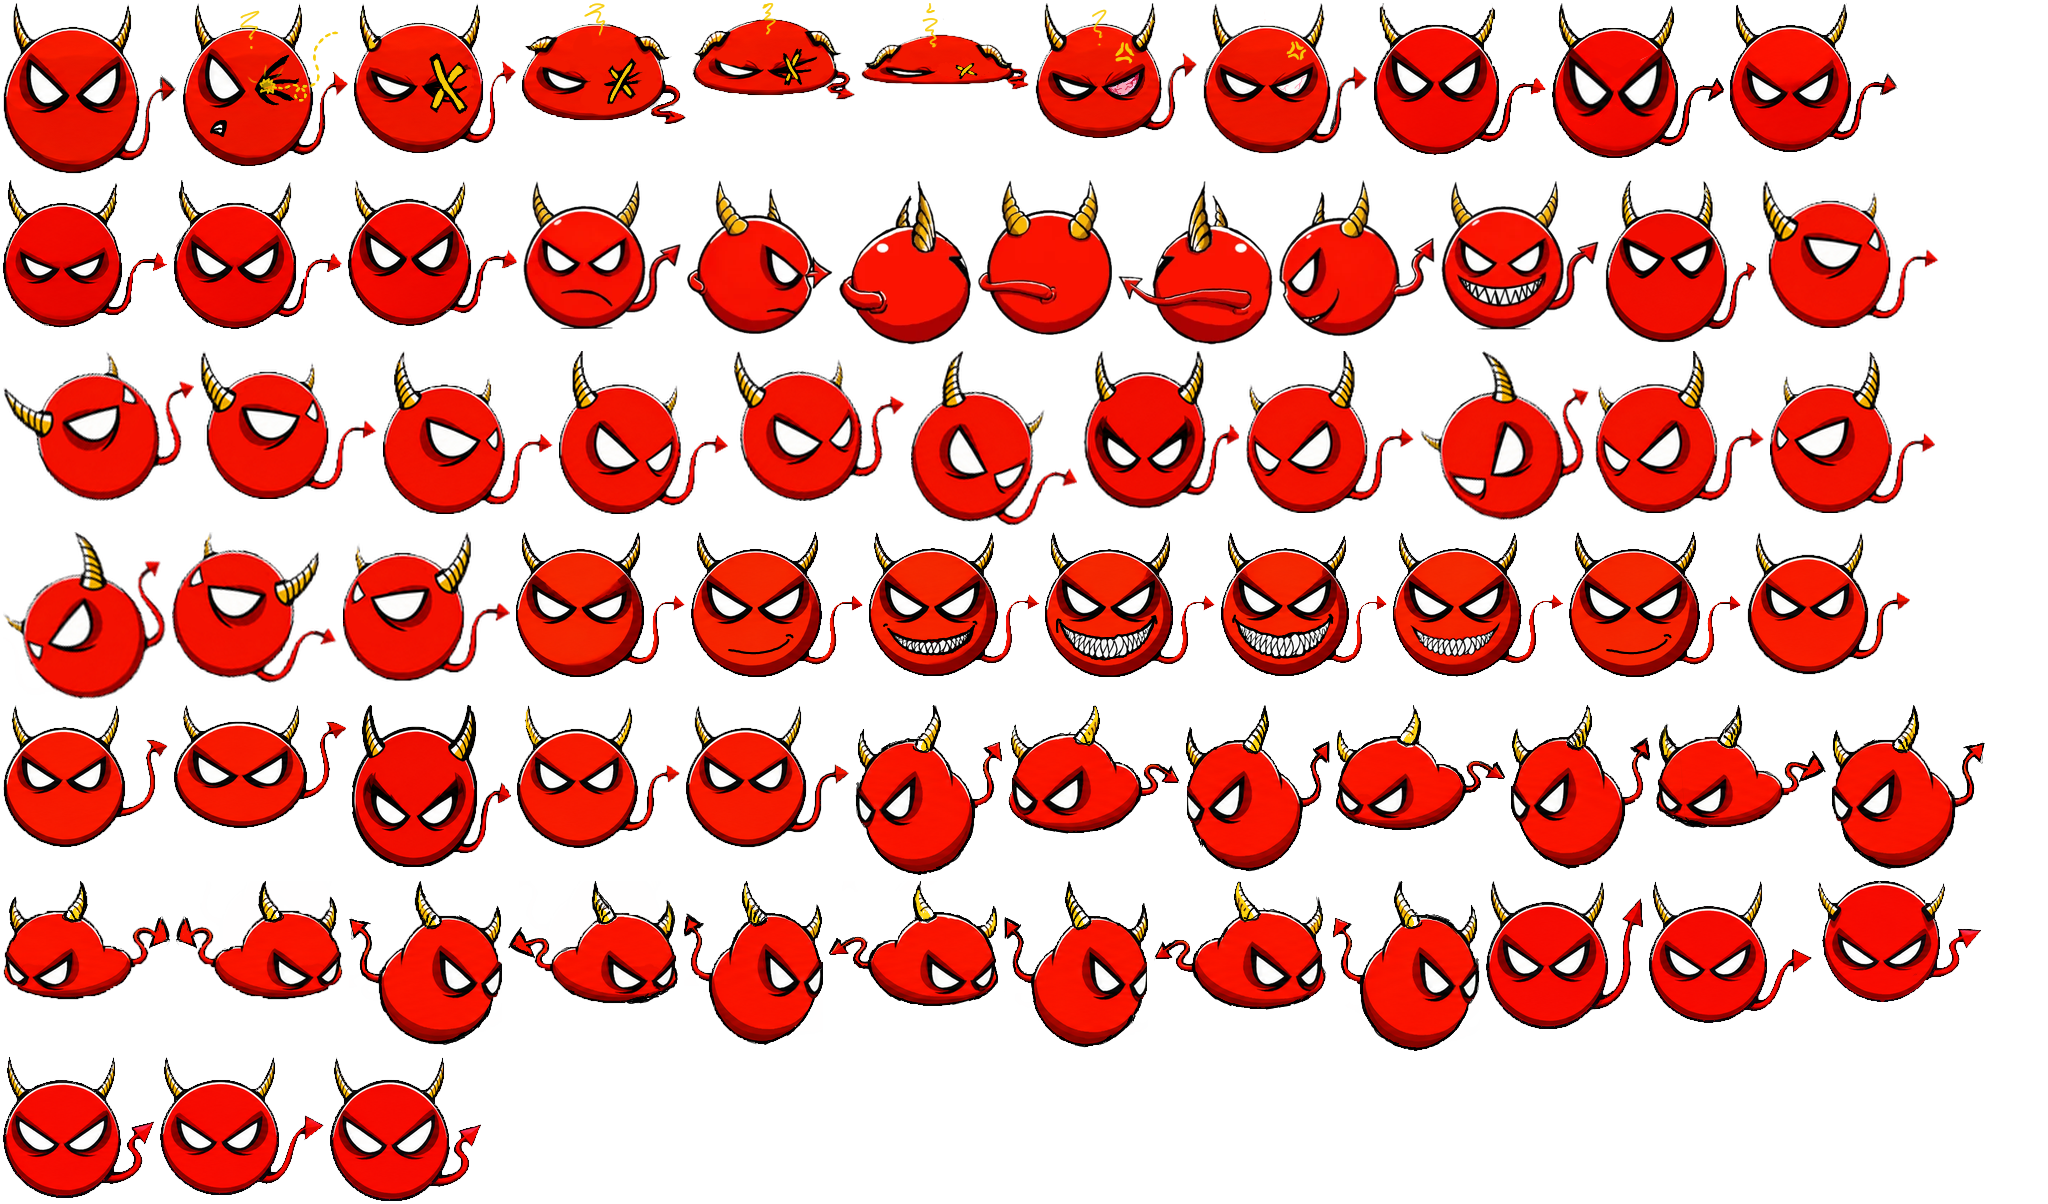
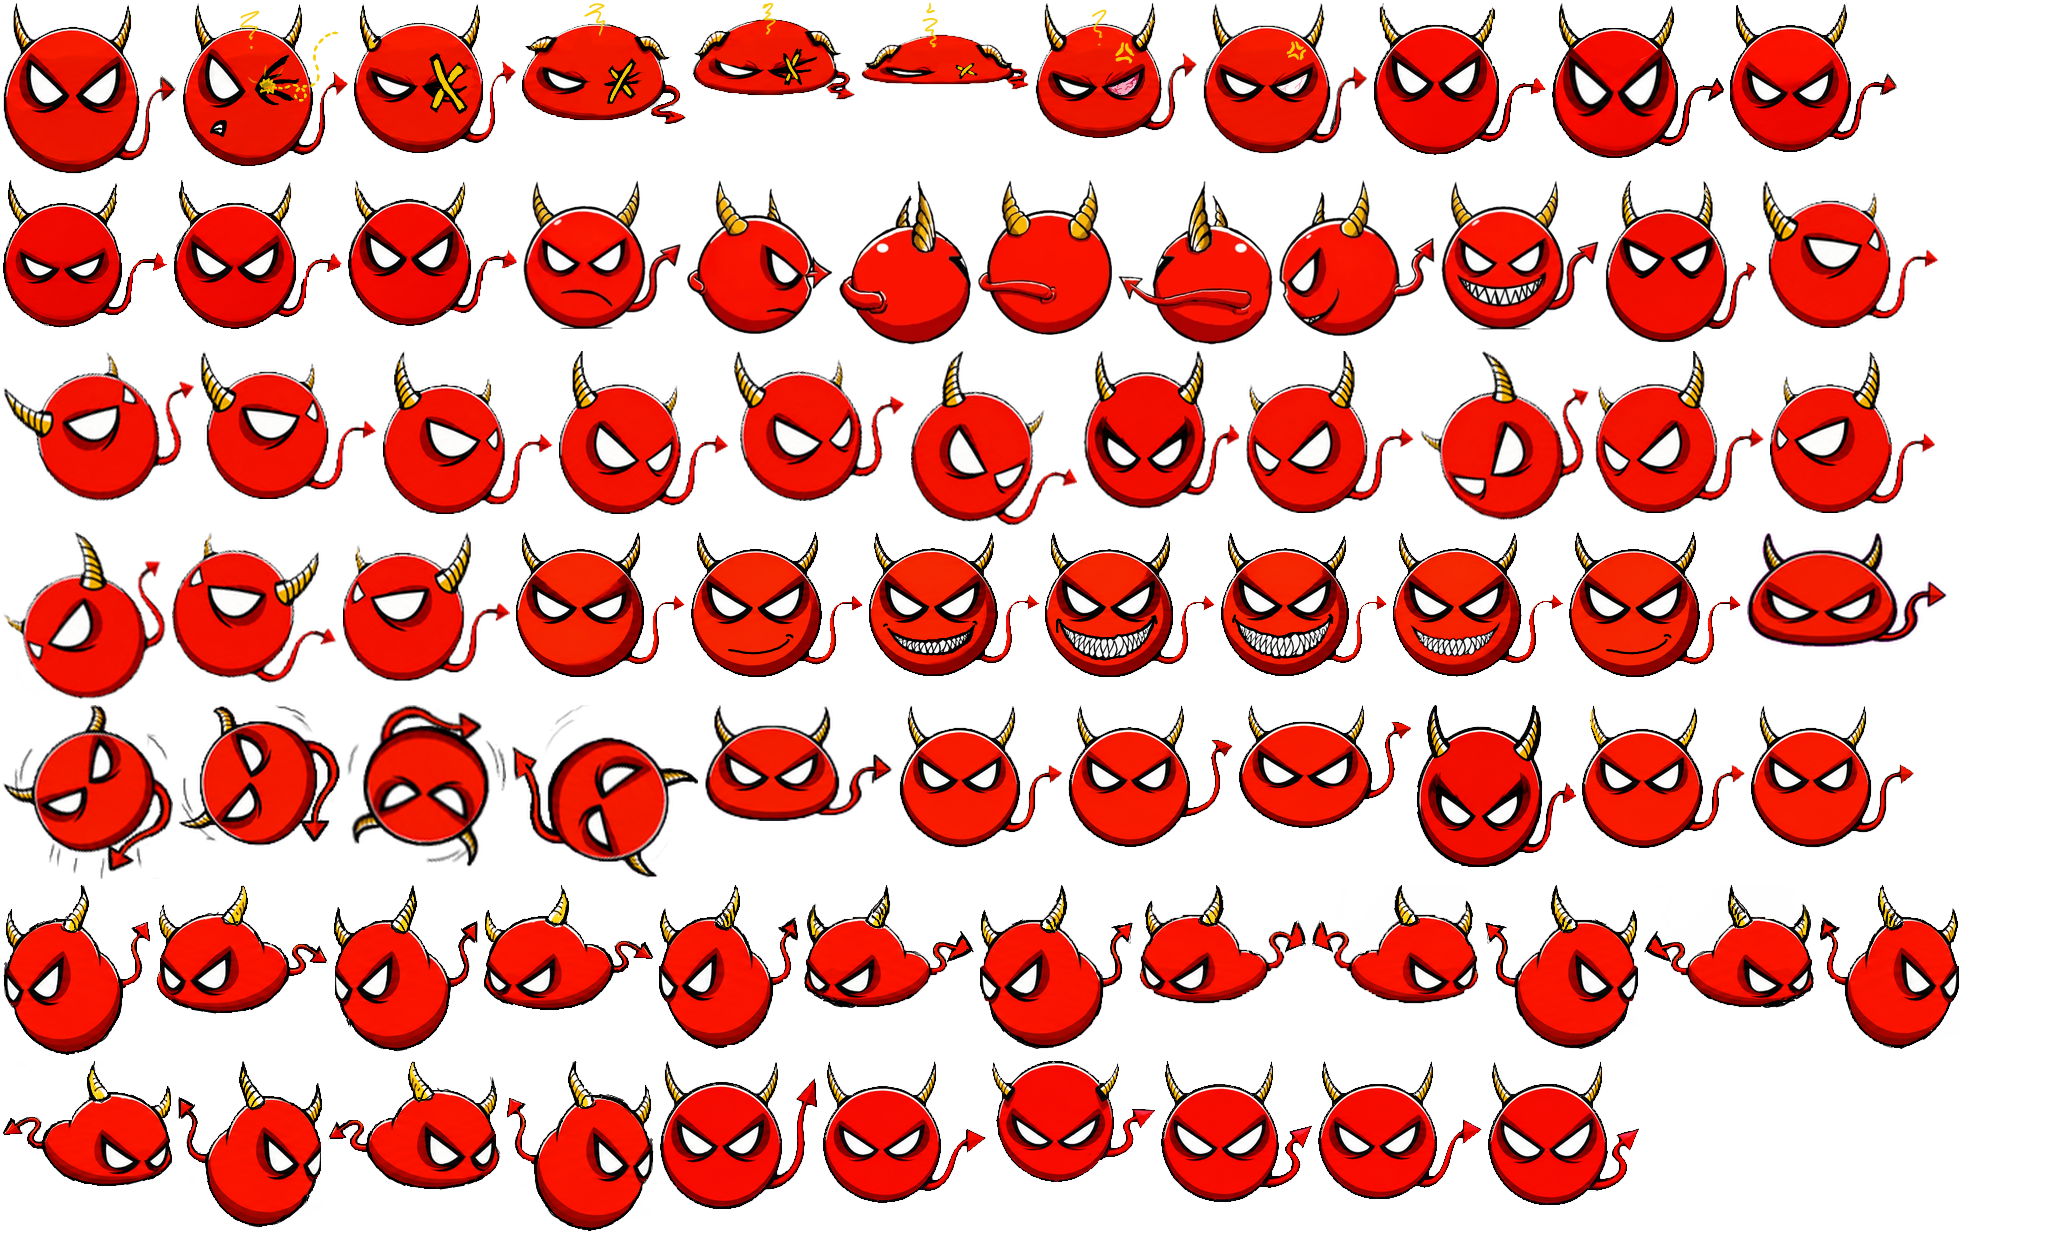
Damien floats: hover, drift, no-gravity throw with his flip
- Pets with "floats": true in their atlas hover above the floor with a slow
  bob, drift on their idle frames instead of walking (never the walk rows),
  and have no gravity: thrown, they slide, slow down, and ease back to hover
  height.
- A fast throw plays "thrown": Dave's flip-and-squish frames (d00, d01, d02,
  d04, d05, d06), scaled to match his sheet, kept where he drew them.
- "fling VX VY" on the AI link throws the pet without a mouse (for testing,
  later for the AI); from the floor it starts with a small hop.

diff --git a/src/DesktopPet/Pet.cs b/src/DesktopPet/Pet.cs
@@ -3,10 +3,10 @@ namespace DesktopPet;
 enum Mode
 {
     Idle,     // standing; fidgets, watches the cursor, decides what to do next
-    Walk,     // heading for a spot on the floor
+    Walk,     // heading for a spot on the floor (a floating pet drifts there)
     Action,   // playing a one-off clip (or a looping clip for a set time)
     Held,     // being dragged by the mouse
-    Falling,  // dropped or thrown, coming down under gravity
+    Falling,  // dropped or thrown: coming down under gravity, or a floating pet drifting to a stop
     Asleep,   // user is away, or told to nap
     Hold,     // an outside caller pinned a state (the future AI hook)
 }
@@ -25,6 +25,13 @@ sealed class Pet
     const double Gravity = 3000;        // px/s^2
     const double HardFall = 260;        // drops higher than this end in the "failed" clip
     const double SleepAfterSeconds = 300;
+    // Floating pets (Damien). All code motion, no drawn frames: easy to tune or drop.
+    const double HoverHeight = 36;      // px above the floor
+    const double BobAmplitude = 4;      // px up and down
+    const double BobPeriod = 2.6;       // s
+    const double FloatSpeed = 55;       // px/s drifting
+    const double FloatDrag = 2.2;       // 1/s; a throw slows down this fast
+    const double FlipSpeed = 350;       // px/s; thrown at least this fast plays "thrown" (flip and squish)
     const double NapSeconds = 120;
 
     Atlas atlas;
@@ -35,7 +42,7 @@ sealed class Pet
     string requested = "idle";
     double clipT, now;
     double nextDecision, nextFidget, actionUntil;
-    double walkTarget;
+    double walkTarget, walkStart;
     int walkDir;
     double vx, vy, fallFrom, dragAy;
     string? holdClip;
@@ -51,6 +58,11 @@ sealed class Pet
     }
 
     bool CanSleep => atlas.Has("sleeping") && atlas.Has("doze_off") && atlas.Has("wake");
+    bool Floats => atlas.Floats;
+    /// <summary>Where a floating pet rests: a little above the floor, bobbing.</summary>
+    double HoverLift => Math.Min(MaxLift, (HoverHeight + BobAmplitude * Math.Sin(now * 2 * Math.PI / BobPeriod)) * Scale);
+    /// <summary>Highest a floating pet goes, so it stays on screen (tiny work areas included).</summary>
+    double MaxLift => Math.Max(0, work.Bottom - work.Top - 160 * Scale);
 
     /// <summary>Switch to a different pet: whatever was playing stops, and it stands idle.</summary>
     public void ReplaceAtlas(Atlas next)
@@ -61,7 +73,7 @@ sealed class Pet
         napping = waking = false;
         vx = vy = 0;
         Lift = 0;
-        GoIdle();
+        GoIdle(); // a floating pet rises to hover height from here (Tick)
     }
 
     public double X { get; set; }
@@ -185,6 +197,11 @@ sealed class Pet
         vy = Math.Clamp(throwVy, -1500 * Scale, 1500 * Scale);
         Lift = Math.Max(0, GroundY - dragAy);
         ClampX(); // dragged past the screen edge: bring it back into view
+        if (Floats)
+        {
+            StartFlight();
+            return;
+        }
         if (Lift < 1)
         {
             Lift = 0;
@@ -194,6 +211,20 @@ sealed class Pet
         fallFrom = Lift;
         mode = Mode.Falling;
         Log.Info($"dropped from {Lift:0}px");
+    }
+
+    /// <summary>Throw it from where it is (the AI link's "fling"). From the floor it starts with a small hop, or a sideways throw would just land.</summary>
+    public void Throw(double throwVx, double throwVy)
+    {
+        if (mode is Mode.Held or Mode.Falling)
+            return;
+        BeginDrag();
+        if (!Floats && Lift < 1)
+        {
+            dragAy = GroundY - 1;
+            throwVy = Math.Min(throwVy, -400 * Scale);
+        }
+        EndDrag(throwVx, throwVy);
     }
 
     /// <summary>Put the pet somewhere new and let it drop in.</summary>
@@ -206,6 +237,11 @@ sealed class Pet
         Lift = Math.Max(0, height);
         fallFrom = Lift;
         napping = waking = false;
+        if (Floats)
+        {
+            StartFlight(); // floats down to hover height
+            return;
+        }
         PlayClip("held");
         mode = Mode.Falling;
     }
@@ -244,6 +280,8 @@ sealed class Pet
             case Mode.Falling: TickFall(dt); break;
             case Mode.Asleep: TickSleep(idleMs); break;
         }
+        if (Floats && mode is not (Mode.Held or Mode.Falling))
+            Lift += (HoverLift - Lift) * (1 - Math.Exp(-8 * dt)); // follow the bob closely, never jump
         UpdateWatch(cursorX, cursorY);
 
         int? look = atlas.HasLook ? forcedLook ?? lookIndex : null;
@@ -333,14 +371,23 @@ sealed class Pet
         }
         walkTarget = target;
         walkDir = target > X ? 1 : -1;
+        walkStart = now;
         mode = Mode.Walk;
-        PlayClip(walkDir > 0 ? "walk_right" : "walk_left");
+        // A floating pet never plays its walk rows (Dave: no squash-and-hop while he drifts).
+        PlayClip(Floats ? "float" : walkDir > 0 ? "walk_right" : "walk_left");
         Log.Info($"walk {X:0} -> {target:0}");
     }
 
     void TickWalk(double dt)
     {
-        X += walkDir * WalkSpeed * Scale * dt;
+        double speed = WalkSpeed;
+        if (Floats)
+        {
+            // drift: ease in over the first second, ease out over the last 60 px
+            double left = Math.Abs(walkTarget - X) / Scale;
+            speed = FloatSpeed * Math.Min(1, (now - walkStart) / 1.0) * Math.Clamp(left / 60, 0.2, 1);
+        }
+        X += walkDir * speed * Scale * dt;
         if ((walkTarget - X) * walkDir <= 0)
         {
             X = walkTarget;
@@ -350,6 +397,11 @@ sealed class Pet
 
     void TickFall(double dt)
     {
+        if (Floats)
+        {
+            TickFlight(dt);
+            return;
+        }
         vy += Gravity * Scale * dt;
         Lift -= vy * dt;
         X += vx * dt;
@@ -370,6 +422,64 @@ sealed class Pet
         {
             Lift = 0;
             Landed(fallFrom);
+        }
+    }
+
+    /// <summary>A floating pet let go of (or dropped in): it drifts, slows, and settles at hover height.</summary>
+    void StartFlight()
+    {
+        mode = Mode.Falling;
+        napping = waking = false;
+        lookIndex = null;
+        // Only a drawn, one-off "thrown" clip; a looping stand-in would never finish.
+        bool flung = Math.Sqrt(vx * vx + vy * vy) >= FlipSpeed * Scale && atlas.Has("thrown") && !atlas.Clip("thrown").Loop;
+        PlayClip(flung ? "thrown" : "idle");
+        Log.Info(flung ? "thrown (floating)" : "let go (floating)");
+    }
+
+    void TickFlight(double dt)
+    {
+        double drag = Math.Exp(-FloatDrag * dt);
+        vx *= drag;
+        vy *= drag;
+        X += vx * dt;
+        Lift -= vy * dt; // vy > 0 is downward
+        double m = 40 * Scale;
+        if (X < work.Left + m)
+        {
+            X = work.Left + m;
+            vx = Math.Abs(vx) * 0.5;
+        }
+        else if (X > work.Right - m)
+        {
+            X = work.Right - m;
+            vx = -Math.Abs(vx) * 0.5;
+        }
+        double maxLift = MaxLift;
+        if (Lift < 0)
+        {
+            Lift = 0;
+            vy = -Math.Abs(vy) * 0.5; // bounce up off the floor
+        }
+        else if (Lift > maxLift)
+        {
+            // let go up near the top edge: sink back under it smoothly, no jump
+            Lift = maxLift + (Lift - maxLift) * Math.Exp(-6 * dt);
+            vy = Math.Abs(vy) * 0.5;
+        }
+
+        // As he slows, ease back toward hover height.
+        double speed = Math.Sqrt(vx * vx + vy * vy);
+        double slow = Math.Clamp(1 - speed / (200 * Scale), 0, 1);
+        Lift += (HoverLift - Lift) * (1 - Math.Exp(-3 * slow * dt));
+
+        if (requested == "thrown" && ClipDone)
+            PlayClip("idle");
+        if (requested != "thrown" && speed < 15 * Scale && Math.Abs(Lift - HoverLift) < 6 * Scale)
+        {
+            vx = vy = 0;
+            Log.Info("settled");
+            GoIdle(1.5, 4);
         }
     }
 

diff --git a/tools/build_codex_pet.py b/tools/build_codex_pet.py
@@ -38,6 +38,15 @@ PETS = {
         # rows replaced by separate strips: frames found left to right; "arc"
         # keeps the heights from the strip, levelled so first and last frames stand on the ground
         "strips": {"jump": (ROOT / "art/source/damien/jump-spin-fixed.webp", "arc")},
+        # rows made of separate frame files, played in the listed order and kept where
+        # each file puts him in its cell. The flip-and-squish, as Dave picked it
+        # (2026-09-27): his frames d00, d01, d02, d04, d05, d06 (he has no d03 for it).
+        # It was drawn smaller than the sheet, so it is scaled up until the roundest
+        # frame's ball matches the idle ball.
+        "files": {"thrown": [ROOT / "art/source/damien/flip" / n for n in
+                             ["d00.png", "d01 (5).png", "d02 (5).png", "d04 (5).png", "d05 (5).png", "d06 (2).png"]]},
+        # he floats: no legs, no gravity (see Pet.cs)
+        "floats": True,
         # size relative to the sheet: the strip was drawn larger than the sheet cells
         "strip_match_row": "idle",
         # rows whose frames are resized so the ball matches the idle ball (he turns, he shouldn't shrink)
@@ -54,6 +63,7 @@ PETS = {
             "working": ("working", "all", 7, True),
             "review": ("review", "all", 6, True),
             "look": ("look", "all", 1, True),
+            "thrown": ("thrown", "all", 10, False),
         },
     },
 }
@@ -168,6 +178,18 @@ def main():
                     img, ox, oy = np.array(im), ox * f, oy * f  # scaled about the ground point under it
             placed.append((row, k, img, int(round(ox)), int(round(oy))))
 
+    for row, paths in cfg.get("files", {}).items():
+        cellsf = [drop_specks(np.array(Image.open(pth).convert("RGBA"))) for pth in paths]
+        masks = [c[..., 3] > 16 for c in cellsf]
+        ground = max(bbox(m)[3] for m in masks)
+        f = idle_radius / max(ball_radius(m) for m in masks) if idle_radius else 1.0
+        for k, (cell, m) in enumerate(zip(cellsf, masks)):
+            x0, y0, x1, y1 = bbox(m)
+            ax = cell.shape[1] / 2
+            im = Image.fromarray(cell[y0:y1, x0:x1], "RGBA").convert("RGBa")
+            im = im.resize((max(1, round(im.width * f)), max(1, round(im.height * f))), Image.LANCZOS).convert("RGBA")
+            placed.append((row, k, np.array(im), int(round((x0 - ax) * f)), int(round((y0 - ground) * f))))
+
     # size strips to match the sheet: compare the strip's first frame height with the reference row
     ref_row = cfg["strip_match_row"]
     ref_heights = [p[2].shape[0] for p in placed if p[0] == ref_row]
@@ -220,7 +242,7 @@ def main():
 
     ASSETS.mkdir(parents=True, exist_ok=True)
     atlas.save(ASSETS / f"{name}.atlas.png", optimize=True)
-    manifest = dict(version=1, pad=PAD, scale=1.0, frames=frames, clips=clips)
+    manifest = dict(version=1, pad=PAD, scale=1.0, floats=bool(cfg.get("floats")), frames=frames, clips=clips)
     (ASSETS / f"{name}.atlas.json").write_text(json.dumps(manifest, indent=1))
 
     idle0 = next(f for f in frames if f["row"] == "idle" and f["index"] == 0)

diff --git a/src/DesktopPet/PetContext.cs b/src/DesktopPet/PetContext.cs
@@ -192,7 +192,7 @@ sealed class PetContext : ApplicationContext
     /// <summary>
     /// One line from the AI link, on the UI thread. Hook lines look like
     /// "hook PreToolUse session=ID tool=Edit" or "hook Notification session=ID type=permission_prompt";
-    /// direct commands are "state NAME", "play NAME", "pet ID", "clear" and "ping".
+    /// direct commands are "state NAME", "play NAME", "pet ID", "fling VX VY", "clear" and "ping".
     /// </summary>
     void OnAiLine(string line)
     {
@@ -225,6 +225,9 @@ sealed class PetContext : ApplicationContext
                 break;
             case "pet" when arg is not null:
                 SwitchPet(arg.ToLowerInvariant());
+                break;
+            case "fling" when parts.Length >= 3:
+                Fling(parts[1], parts[2]);
                 break;
             case "clear":
                 aiSessions.Clear();
@@ -730,6 +733,18 @@ sealed class PetContext : ApplicationContext
             oldIcon?.Dispose();
         }
         Log.Info("pet replaced");
+    }
+
+    /// <summary>Throw the pet from where it is, as if picked up and let go at this speed (px/s at normal size).</summary>
+    void Fling(string vxText, string vyText)
+    {
+        var inv = System.Globalization.CultureInfo.InvariantCulture;
+        if (dragging || pressed ||
+            !double.TryParse(vxText, System.Globalization.NumberStyles.Float, inv, out double vx) ||
+            !double.TryParse(vyText, System.Globalization.NumberStyles.Float, inv, out double vy) ||
+            !double.IsFinite(vx) || !double.IsFinite(vy))
+            return;
+        pet.Throw(vx * pet.Scale, vy * pet.Scale); // the speed is clamped there
     }
 
     /// <summary>Switch to another built-in pet and remember the choice.</summary>

diff --git a/src/DesktopPet/Atlas.cs b/src/DesktopPet/Atlas.cs
@@ -35,6 +35,8 @@ sealed class Manifest
     public int Pad { get; set; }
     /// <summary>Display scale at 144 dpi and "Normal" size; 1 means one sheet pixel per screen pixel.</summary>
     public double Scale { get; set; } = 1.0;
+    /// <summary>The pet floats instead of walking: no legs, no gravity.</summary>
+    public bool Floats { get; set; }
     public List<FrameDef> Frames { get; set; } = new();
     public Dictionary<string, ClipDef> Clips { get; set; } = new();
 }
@@ -70,6 +72,7 @@ sealed class Atlas : IDisposable
         ["review"] = ["think"],
         ["working"] = ["think"],
         ["held"] = ["jump"],
+        ["thrown"] = ["held", "jump"],
         ["failed"] = ["land"],
         ["walk_left"] = ["walk_right"],
     };
@@ -79,6 +82,7 @@ sealed class Atlas : IDisposable
 
     public IReadOnlyDictionary<string, ClipDef> Clips => manifest.Clips;
     public double BaseScale => manifest.Scale > 0 ? manifest.Scale : 1.0;
+    public bool Floats => manifest.Floats;
     public bool HasLook { get; }
 
     Atlas(Bitmap sheet, Manifest manifest, bool hasLook)

diff --git a/src/DesktopPet/Program.cs b/src/DesktopPet/Program.cs
@@ -7,7 +7,7 @@ static class Program
     [
         "idle", "fidget_tilt", "fidget_chest", "fidget_lean", "walk_right", "walk_left", "wave", "think", "shrug",
         "waiting", "jump", "held", "land", "failed", "working", "review", "doze_off", "sleeping", "wake",
-        "evolve", "flex", "leap", "happy",
+        "evolve", "flex", "leap", "happy", "thrown", "float",
     ];
 
     [STAThread]

diff --git a/README.md b/README.md
@@ -61,7 +61,8 @@ Events used: `SessionStart`, `UserPromptSubmit`, `PreToolUse` (matcher `*`),
 `SessionEnd`.
 
 Send commands by hand: `revbot-hook --send "state working"`, `"play wave"`,
-`"pet damien"`, `"clear"`, `"ping"`.
+`"pet damien"`, `"fling 900 -700"` (throw it at that speed, px/s), `"clear"`,
+`"ping"`.
 
 ## Controls
 
@@ -106,6 +107,12 @@ like a Claude Code hook can call it.
 Two pets are built in: RevBot and Damien (the red devil ball). Pick one from
 the "Pet" menu; the choice is saved. Damien's atlas is built from his sheet by
 `python toolsuild_codex_pet.py damien`.
+
+Damien floats (`"floats": true` in his atlas): he hovers a little above the
+floor with a slow bob, drifts instead of walking (his idle frames, never the
+walk rows), and has no gravity. Thrown, he plays his flip-and-squish, slides
+to a stop and eases back to hover height. The hover, bob, drift and drag
+numbers are the `Float*`/`Hover*`/`Bob*` constants at the top of `Pet.cs`.
 
 ## Art pipeline
 

diff --git a/ROADMAP.md b/ROADMAP.md
@@ -136,6 +136,10 @@ only in the separate kid's edition (Desk-Pet-Maker).
   from his art folder belong in there instead.
 - Most of the time he has no mouth; the smile and the toothy grin are for
   moments.
+- Built 2026-09-27 (branch feature/damien-float): hover with bob, drift on
+  idle frames, no-gravity throw with the flip-and-squish (his d00, d01, d02,
+  d04, d05, d06), then ease back to hover. Terrain (floating over windows and
+  icons) comes with section 5.
 - **Animating him is Dave's own job.** Code picks and times only frames Dave
   drew, in the order he numbered them; no invented frames. His wave (tail
   wiggle) was pulled 2026-09-27: its motion scribbles looked wrong and it
